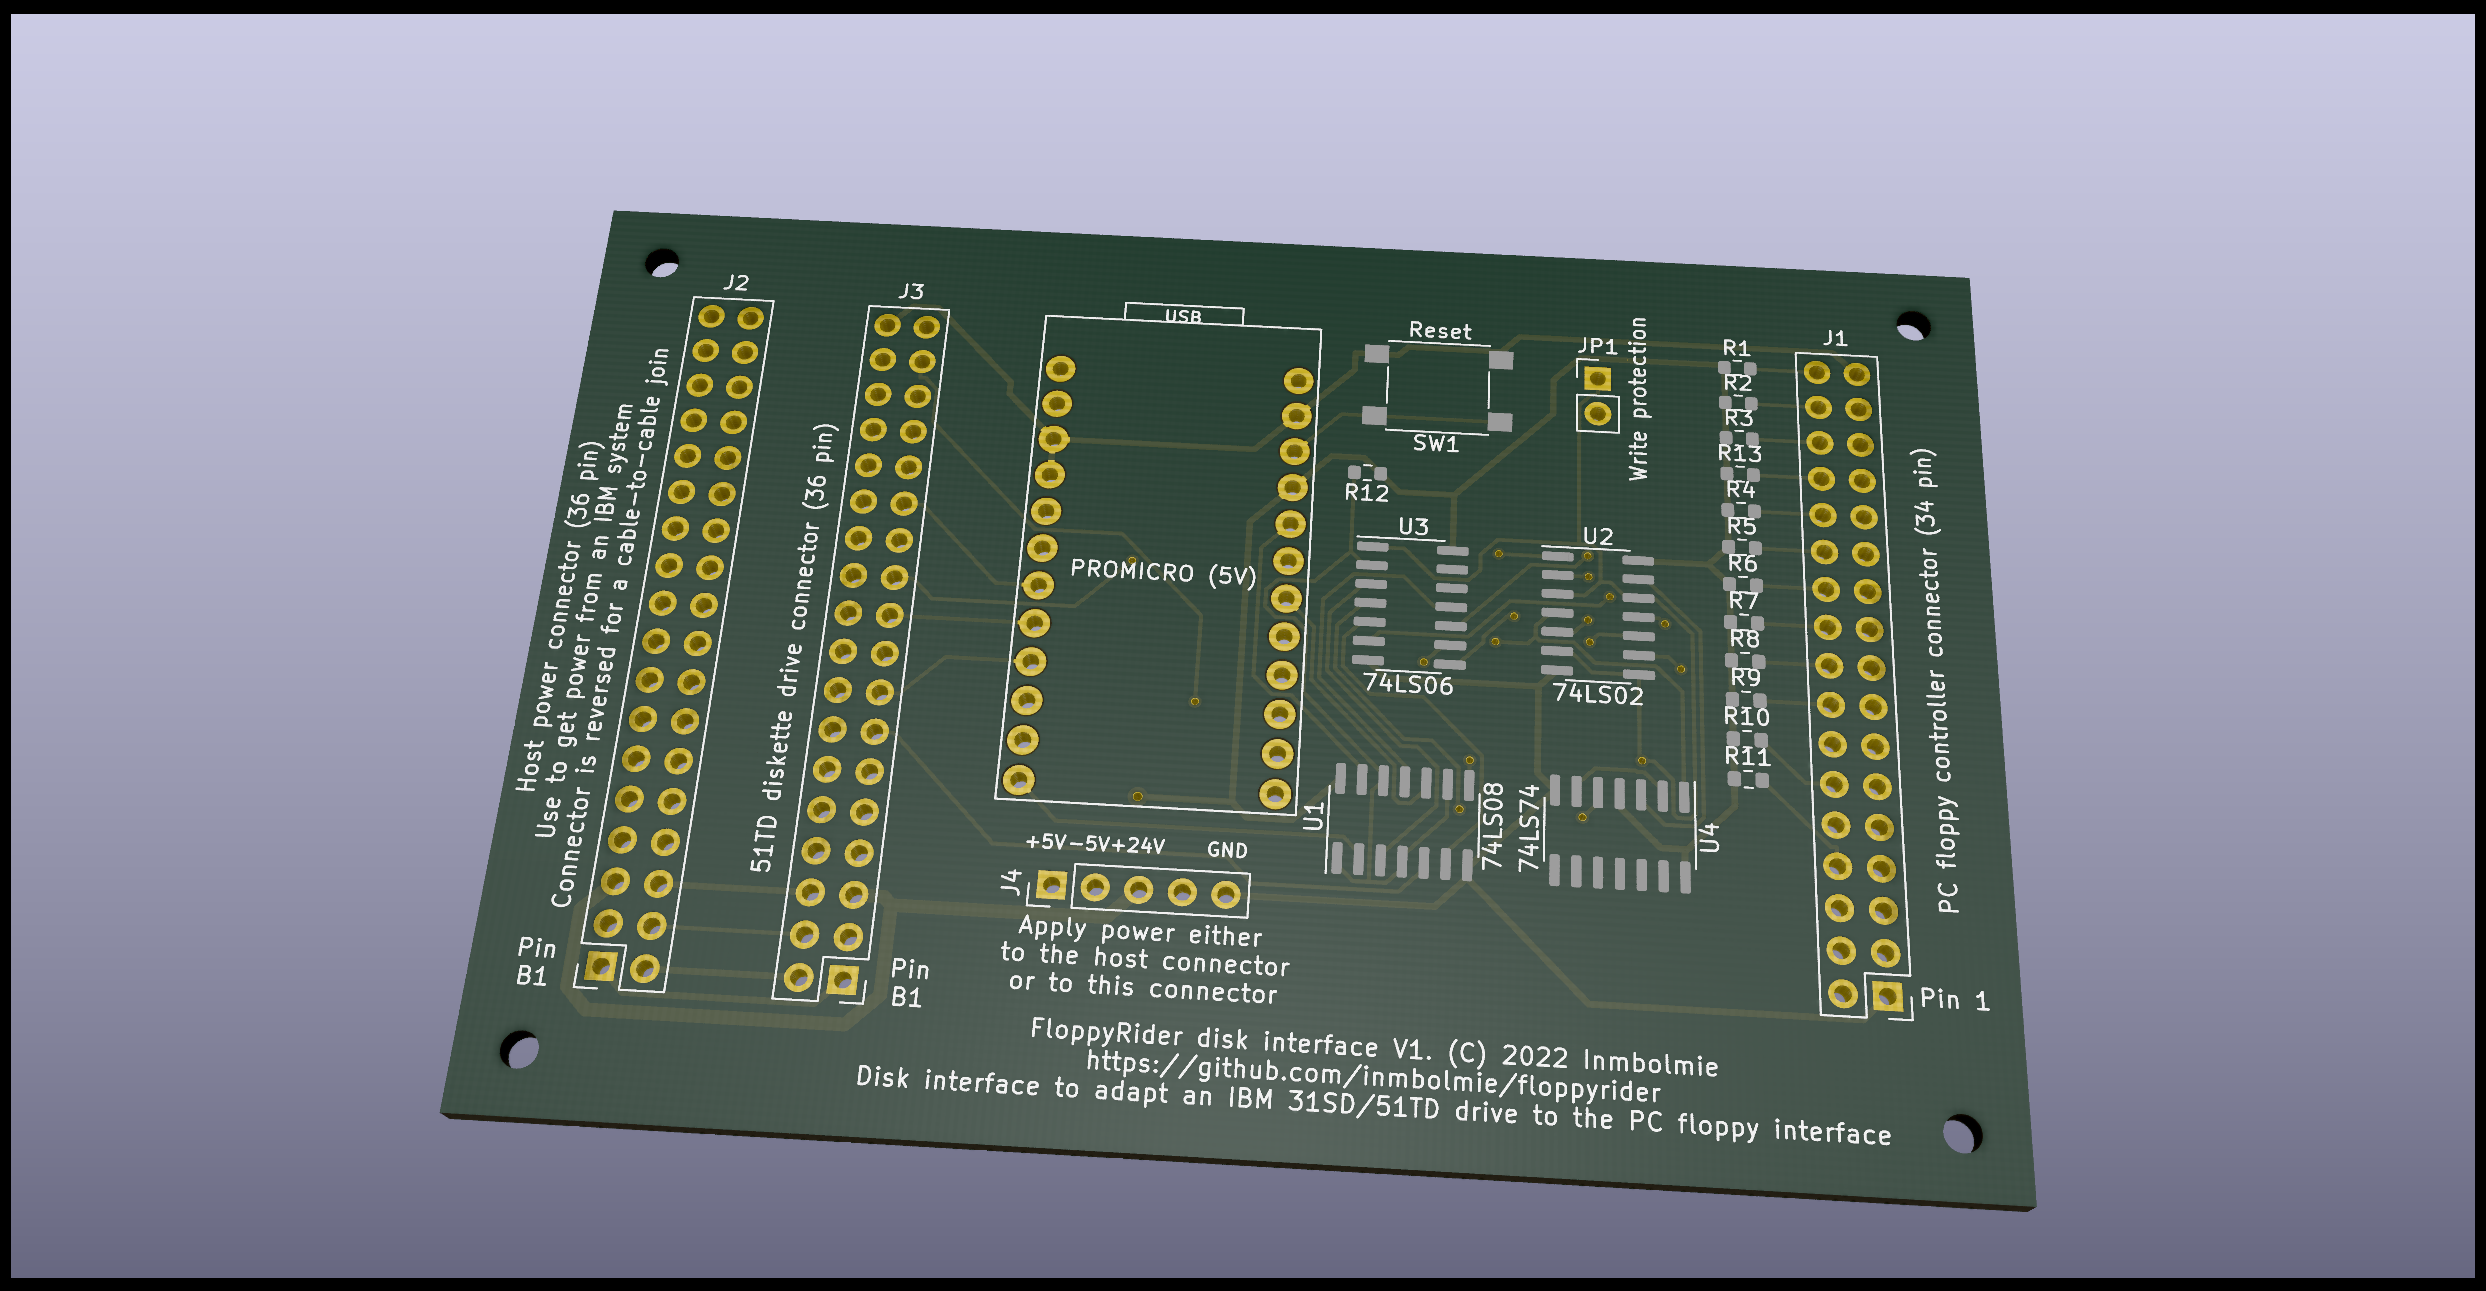
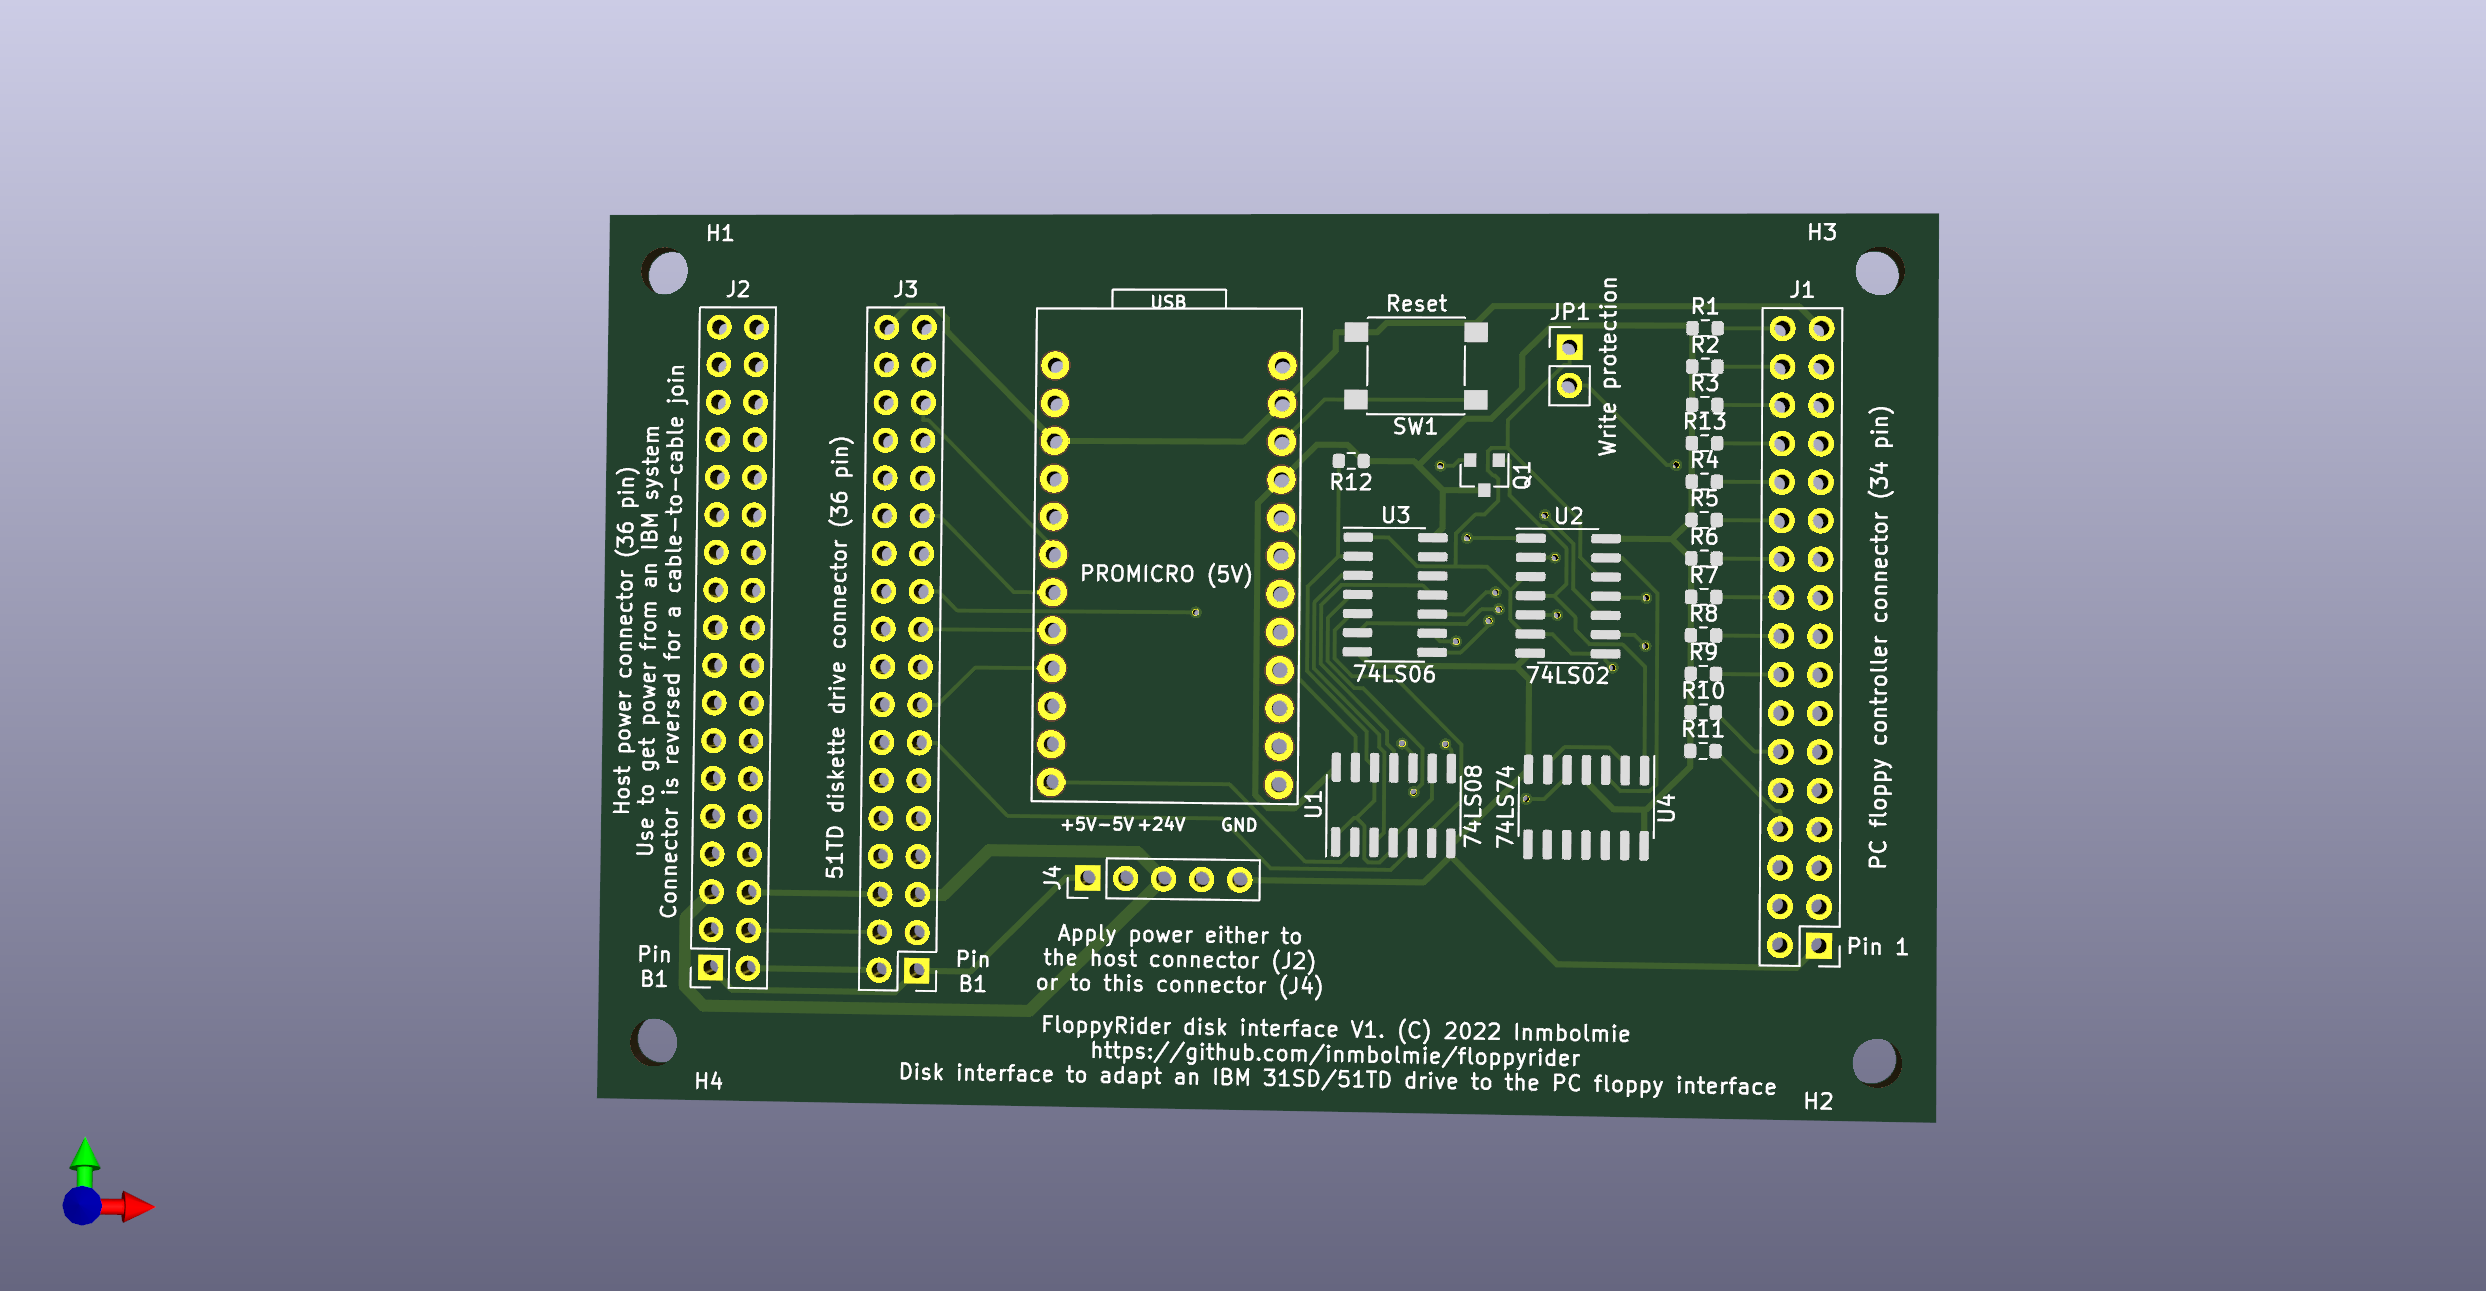
Revision 2 doc update

diff --git a/README.md b/README.md
@@ -1,9 +1,14 @@
 # FloppyRider
 Disk interface adapter to connect an IBM 31SD or 51TD 8-inch disk unit to a standard PC floppy controller
 
+![Diskette](./images/floppyrider.JPG)
+
+
 ![Diskette](./images/IBM_Diskette_1_with_envelope.gif)
 
 __This project is currently in Beta stage.__
+
+__Second revision (20220624): I have added a transistor to drive the write/erase-gate signals on the IBM drive. I have noticed that write/erase-gate have a very low input impedance (90 ohms each, could that be a safety measure to make harder to accidentally drive the signal high?) that is way over-spec for the 74LS logic to drive properly. The prototype worked by pure luck but trying with other 74LS components the signal level was too low to enable the gates so the device was only capable of reading. The solution is to include a transistor to drive that signals up to aceptable levels.__
 
 ## Introduction
 
@@ -29,6 +34,7 @@ The adapter hardware is pretty straightforward and can be made cheapily with ver
 * 74LS74
 * 12x1K resistors
 * 1x4,7K resistor
+* NPN transistor
 
 
 ## Software
